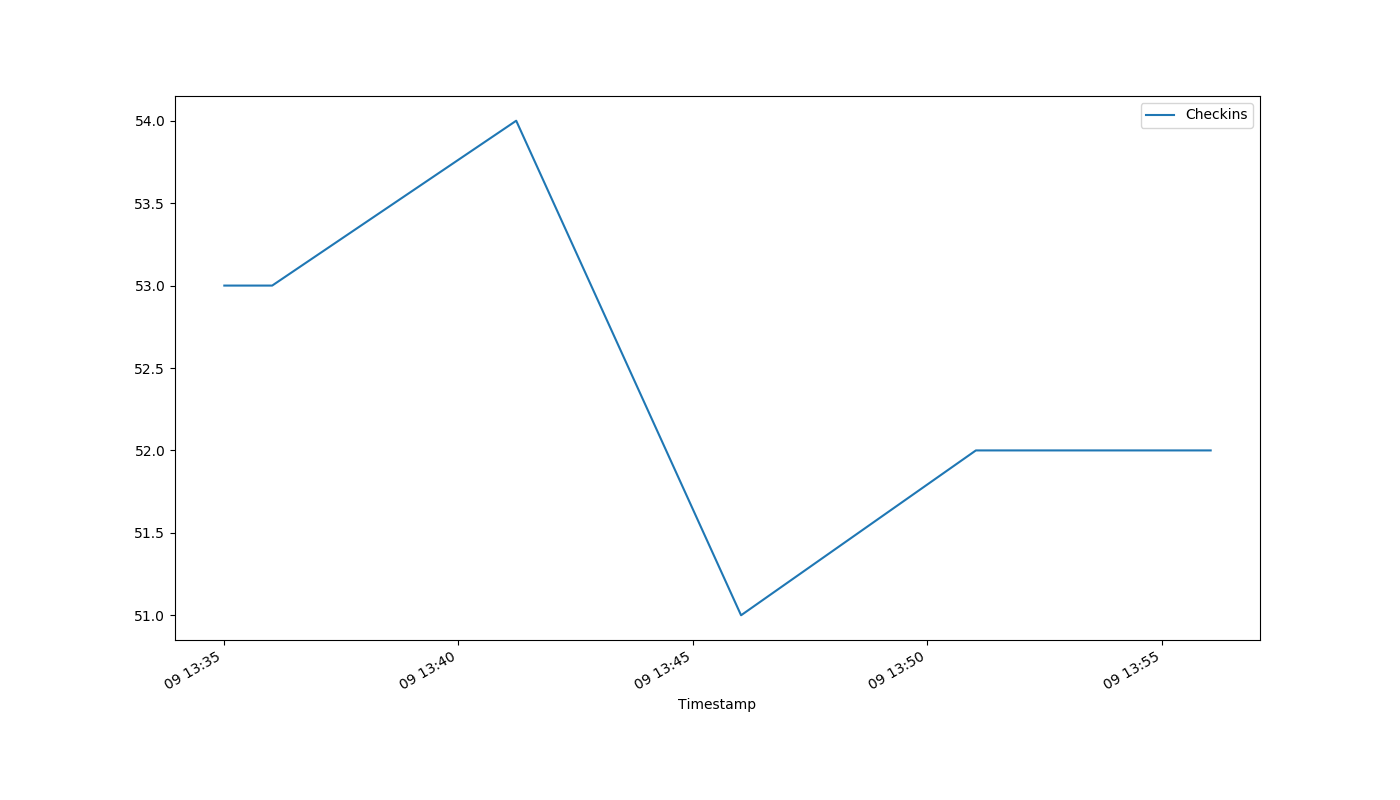
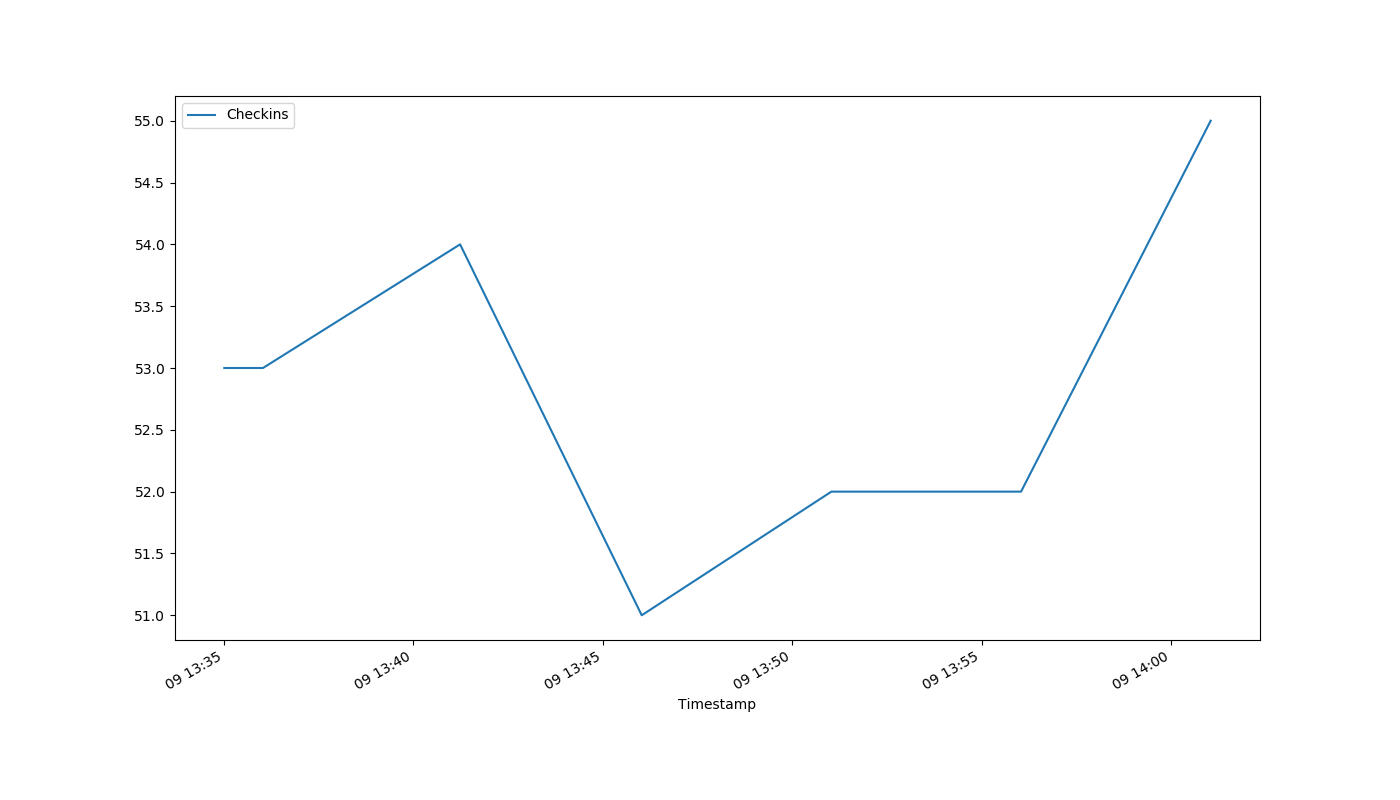
auto-Aug-09-14:01:35

diff --git a/index.html b/index.html
@@ -1,1 +1,1 @@
-<!DOCTYPE html><html><head><meta http-equiv="refresh" content="30"><link rel='stylesheet' href='holmcurrent.css'></head><body><p id='count'>52</p><div id='graph-wrap'><img id='graph' src='holmgraph-Aug-09.png'></div><p id='updated'>Last updated 13:56:10 / 13:56:02</p></body></html>
+<!DOCTYPE html><html><head><meta http-equiv="refresh" content="30"><link rel='stylesheet' href='holmcurrent.css'></head><body><p id='count'>55</p><div id='graph-wrap'><img id='graph' src='holmgraph-Aug-09.png'></div><p id='updated'>Last updated 14:01:10 / 14:01:02</p></body></html>
